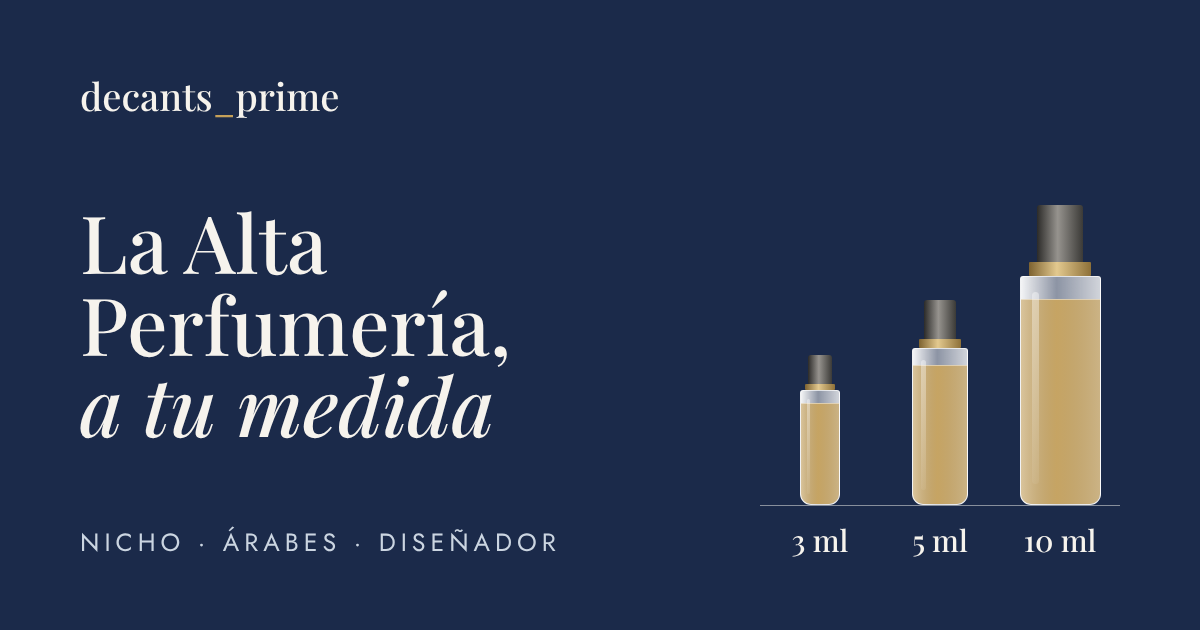
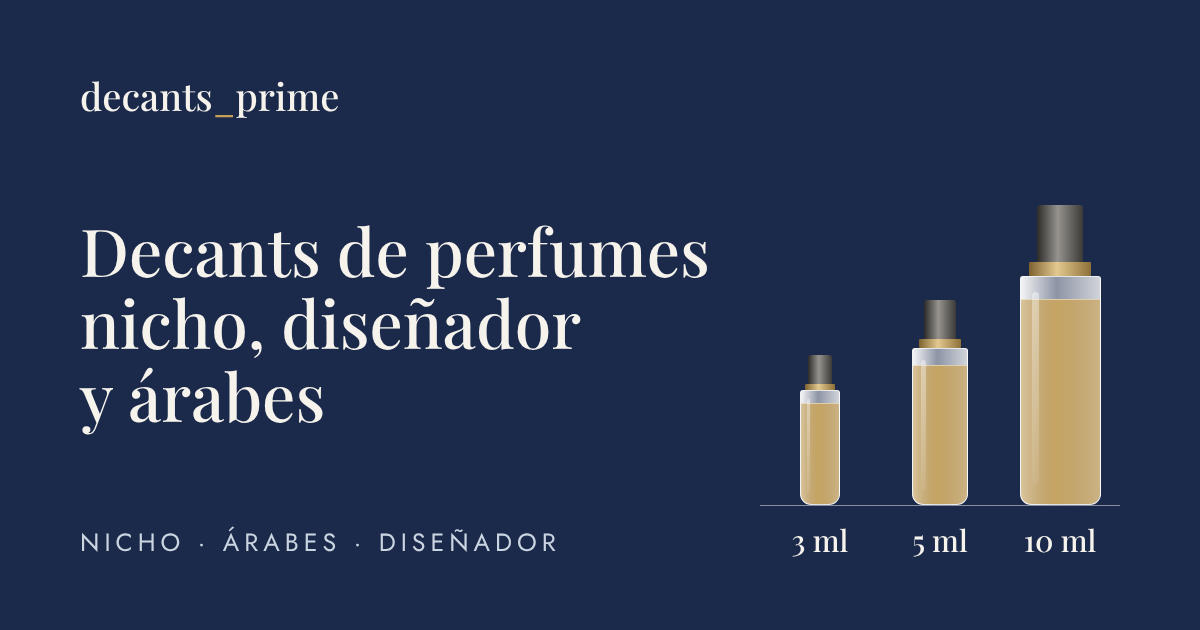
Afina el inicio, la sección de por qué comprar un decant y publica reseñas
- Titular del inicio más directo y sin la línea de la estrella
- Sellos de confianza más compactos
- ¿Por qué comprar un decant? en un solo bloque, sin la comparativa
- Siete reseñas de clientes publicadas

Claude-Session: https://claude.ai/code/session_01RRv6x49iVDBYFgnW4mL8oC

Changed region(s): [[0.0617, 0.3317, 0.5858, 0.6937]]

diff --git a/index.html b/index.html
@@ -22,7 +22,7 @@
 <meta property="og:type" content="website">
 <meta property="og:locale" content="es_CL">
 <meta property="og:site_name" content="decants_prime">
-<meta property="og:title" content="decants_prime | La Alta Perfumería, a tu medida">
+<meta property="og:title" content="decants_prime | Decants de perfumes nicho, diseñador y árabes">
 <meta property="og:description" content="Decants de perfumes Nicho, Árabes y de Diseñador. Entregas en Rancagua y Santiago, envíos a todo Chile.">
 <meta property="og:url" content="https://aleshiro.github.io/Claudio-/">
 <meta property="og:image" content="https://aleshiro.github.io/Claudio-/assets/og-image.png">
@@ -30,7 +30,7 @@
 <meta property="og:image:height" content="630">
 <meta property="og:image:alt" content="decants_prime: decants de perfumes de alta perfumería">
 <meta name="twitter:card" content="summary_large_image">
-<meta name="twitter:title" content="decants_prime | La Alta Perfumería, a tu medida">
+<meta name="twitter:title" content="decants_prime | Decants de perfumes nicho, diseñador y árabes">
 <meta name="twitter:description" content="Decants de perfumes Nicho, Árabes y de Diseñador.">
 <meta name="twitter:image" content="https://aleshiro.github.io/Claudio-/assets/og-image.png">
 
@@ -83,7 +83,7 @@
      Solo hay que regenerarlo si cambias clases de diseño: ver README, sección "Diseño". -->
 <style>
 /* TAILWIND:INICIO */
-*,:after,:before{--tw-border-spacing-x:0;--tw-border-spacing-y:0;--tw-translate-x:0;--tw-translate-y:0;--tw-rotate:0;--tw-skew-x:0;--tw-skew-y:0;--tw-scale-x:1;--tw-scale-y:1;--tw-pan-x: ;--tw-pan-y: ;--tw-pinch-zoom: ;--tw-scroll-snap-strictness:proximity;--tw-gradient-from-position: ;--tw-gradient-via-position: ;--tw-gradient-to-position: ;--tw-ordinal: ;--tw-slashed-zero: ;--tw-numeric-figure: ;--tw-numeric-spacing: ;--tw-numeric-fraction: ;--tw-ring-inset: ;--tw-ring-offset-width:0px;--tw-ring-offset-color:#fff;--tw-ring-color:rgba(59,130,246,.5);--tw-ring-offset-shadow:0 0 #0000;--tw-ring-shadow:0 0 #0000;--tw-shadow:0 0 #0000;--tw-shadow-colored:0 0 #0000;--tw-blur: ;--tw-brightness: ;--tw-contrast: ;--tw-grayscale: ;--tw-hue-rotate: ;--tw-invert: ;--tw-saturate: ;--tw-sepia: ;--tw-drop-shadow: ;--tw-backdrop-blur: ;--tw-backdrop-brightness: ;--tw-backdrop-contrast: ;--tw-backdrop-grayscale: ;--tw-backdrop-hue-rotate: ;--tw-backdrop-invert: ;--tw-backdrop-opacity: ;--tw-backdrop-saturate: ;--tw-backdrop-sepia: ;--tw-contain-size: ;--tw-contain-layout: ;--tw-contain-paint: ;--tw-contain-style: }::backdrop{--tw-border-spacing-x:0;--tw-border-spacing-y:0;--tw-translate-x:0;--tw-translate-y:0;--tw-rotate:0;--tw-skew-x:0;--tw-skew-y:0;--tw-scale-x:1;--tw-scale-y:1;--tw-pan-x: ;--tw-pan-y: ;--tw-pinch-zoom: ;--tw-scroll-snap-strictness:proximity;--tw-gradient-from-position: ;--tw-gradient-via-position: ;--tw-gradient-to-position: ;--tw-ordinal: ;--tw-slashed-zero: ;--tw-numeric-figure: ;--tw-numeric-spacing: ;--tw-numeric-fraction: ;--tw-ring-inset: ;--tw-ring-offset-width:0px;--tw-ring-offset-color:#fff;--tw-ring-color:rgba(59,130,246,.5);--tw-ring-offset-shadow:0 0 #0000;--tw-ring-shadow:0 0 #0000;--tw-shadow:0 0 #0000;--tw-shadow-colored:0 0 #0000;--tw-blur: ;--tw-brightness: ;--tw-contrast: ;--tw-grayscale: ;--tw-hue-rotate: ;--tw-invert: ;--tw-saturate: ;--tw-sepia: ;--tw-drop-shadow: ;--tw-backdrop-blur: ;--tw-backdrop-brightness: ;--tw-backdrop-contrast: ;--tw-backdrop-grayscale: ;--tw-backdrop-hue-rotate: ;--tw-backdrop-invert: ;--tw-backdrop-opacity: ;--tw-backdrop-saturate: ;--tw-backdrop-sepia: ;--tw-contain-size: ;--tw-contain-layout: ;--tw-contain-paint: ;--tw-contain-style: }/*! tailwindcss v3.4.17 | MIT License | https://tailwindcss.com*/*,:after,:before{border:0 solid #e5e7eb;box-sizing:border-box}:after,:before{--tw-content:""}:host,html{line-height:1.5;-webkit-text-size-adjust:100%;font-family:var(--font-sans);font-feature-settings:normal;font-variation-settings:normal;tab-size:4;-webkit-tap-highlight-color:transparent}body{line-height:inherit;margin:0}hr{border-top-width:1px;color:inherit;height:0}abbr:where([title]){-webkit-text-decoration:underline dotted;text-decoration:underline dotted}h1,h2,h3,h4,h5,h6{font-size:inherit;font-weight:inherit}a{color:inherit;text-decoration:inherit}b,strong{font-weight:bolder}code,kbd,pre,samp{font-family:ui-monospace,SFMono-Regular,Menlo,Monaco,Consolas,Liberation Mono,Courier New,monospace;font-feature-settings:normal;font-size:1em;font-variation-settings:normal}small{font-size:80%}sub,sup{font-size:75%;line-height:0;position:relative;vertical-align:baseline}sub{bottom:-.25em}sup{top:-.5em}table{border-collapse:collapse;border-color:inherit;text-indent:0}button,input,optgroup,select,textarea{color:inherit;font-family:inherit;font-feature-settings:inherit;font-size:100%;font-variation-settings:inherit;font-weight:inherit;letter-spacing:inherit;line-height:inherit;margin:0;padding:0}button,select{text-transform:none}button,input:where([type=button]),input:where([type=reset]),input:where([type=submit]){-webkit-appearance:button;background-color:transparent;background-image:none}:-moz-focusring{outline:auto}:-moz-ui-invalid{box-shadow:none}progress{vertical-align:baseline}::-webkit-inner-spin-button,::-webkit-outer-spin-button{height:auto}[type=search]{-webkit-appearance:textfield;outline-offset:-2px}::-webkit-search-decoration{-webkit-appearance:none}::-webkit-file-upload-button{-webkit-appearance:button;font:inherit}summary{display:list-item}blockquote,dd,dl,figure,h1,h2,h3,h4,h5,h6,hr,p,pre{margin:0}fieldset{margin:0}fieldset,legend{padding:0}menu,ol,ul{list-style:none;margin:0;padding:0}dialog{padding:0}textarea{resize:vertical}input::placeholder,textarea::placeholder{color:#9ca3af;opacity:1}[role=button],button{cursor:pointer}:disabled{cursor:default}audio,canvas,embed,iframe,img,object,svg,video{display:block;vertical-align:middle}img,video{height:auto;max-width:100%}[hidden]:where(:not([hidden=until-found])){display:none}.sr-only{height:1px;margin:-1px;overflow:hidden;padding:0;position:absolute;width:1px;clip:rect(0,0,0,0);border-width:0;white-space:nowrap}.pointer-events-none{pointer-events:none}.\!visible{visibility:visible!important}.visible{visibility:visible}.fixed{position:fixed}.absolute{position:absolute}.relative{position:relative}.sticky{position:sticky}.bottom-2{bottom:.5rem}.left-2{left:.5rem}.left-3\.5{left:.875rem}.right-1\.5{right:.375rem}.right-2{right:.5rem}.top-1\.5{top:.375rem}.top-1\/2{top:50%}.top-2{top:.5rem}.z-10{z-index:10}.z-40{z-index:40}.my-6{margin-bottom:1.5rem;margin-top:1.5rem}.-ml-2\.5{margin-left:-.625rem}.-mr-2{margin-right:-.5rem}.-mr-2\.5{margin-right:-.625rem}.-mt-2{margin-top:-.5rem}.mb-1\.5{margin-bottom:.375rem}.ml-auto{margin-left:auto}.mt-0\.5{margin-top:.125rem}.mt-1{margin-top:.25rem}.mt-1\.5{margin-top:.375rem}.mt-12{margin-top:3rem}.mt-2{margin-top:.5rem}.mt-2\.5{margin-top:.625rem}.mt-3{margin-top:.75rem}.mt-4{margin-top:1rem}.mt-5{margin-top:1.25rem}.mt-6{margin-top:1.5rem}.mt-7{margin-top:1.75rem}.mt-8{margin-top:2rem}.mt-9{margin-top:2.25rem}.mt-auto{margin-top:auto}.block{display:block}.flex{display:flex}.inline-flex{display:inline-flex}.grid{display:grid}.hidden{display:none}.aspect-square{aspect-ratio:1/1}.h-12{height:3rem}.h-14{height:3.5rem}.h-9{height:2.25rem}.h-\[4\.5rem\]{height:4.5rem}.h-full{height:100%}.w-12{width:3rem}.w-64{width:16rem}.w-7{width:1.75rem}.w-9{width:2.25rem}.w-full{width:100%}.min-w-0{min-width:0}.max-w-2xl{max-width:42rem}.max-w-3xl{max-width:48rem}.max-w-md{max-width:28rem}.max-w-sm{max-width:24rem}.max-w-xl{max-width:36rem}.flex-1{flex:1 1 0%}.flex-none{flex:none}.-translate-y-1\/2{--tw-translate-y:-50%}.-translate-y-1\/2,.transform{transform:translate(var(--tw-translate-x),var(--tw-translate-y)) rotate(var(--tw-rotate)) skewX(var(--tw-skew-x)) skewY(var(--tw-skew-y)) scaleX(var(--tw-scale-x)) scaleY(var(--tw-scale-y))}.resize{resize:both}.grid-cols-2{grid-template-columns:repeat(2,minmax(0,1fr))}.grid-cols-\[auto_1fr\]{grid-template-columns:auto 1fr}.flex-col{flex-direction:column}.flex-wrap{flex-wrap:wrap}.items-start{align-items:flex-start}.items-end{align-items:flex-end}.items-center{align-items:center}.items-baseline{align-items:baseline}.justify-end{justify-content:flex-end}.justify-center{justify-content:center}.justify-between{justify-content:space-between}.gap-1{gap:.25rem}.gap-1\.5{gap:.375rem}.gap-10{gap:2.5rem}.gap-12{gap:3rem}.gap-2{gap:.5rem}.gap-2\.5{gap:.625rem}.gap-3{gap:.75rem}.gap-3\.5{gap:.875rem}.gap-4{gap:1rem}.gap-5{gap:1.25rem}.gap-6{gap:1.5rem}.gap-7{gap:1.75rem}.gap-9{gap:2.25rem}.gap-px{gap:1px}.gap-x-12{column-gap:3rem}.gap-x-2{column-gap:.5rem}.gap-x-3{column-gap:.75rem}.gap-x-4{column-gap:1rem}.gap-x-6{column-gap:1.5rem}.gap-y-0\.5{row-gap:.125rem}.gap-y-1{row-gap:.25rem}.gap-y-1\.5{row-gap:.375rem}.gap-y-3{row-gap:.75rem}.gap-y-4{row-gap:1rem}.gap-y-6{row-gap:1.5rem}.self-start{align-self:flex-start}.justify-self-center{justify-self:center}.overflow-hidden{overflow:hidden}.overflow-y-auto{overflow-y:auto}.overscroll-contain{overscroll-behavior:contain}.whitespace-nowrap{white-space:nowrap}.text-wrap{text-wrap:wrap}.break-all{word-break:break-all}.rounded-full{border-radius:9999px}.border{border-width:1px}.border-2{border-width:2px}.border-y{border-top-width:1px}.border-b,.border-y{border-bottom-width:1px}.border-t{border-top-width:1px}.border-linea{--tw-border-opacity:1;border-color:rgb(var(--linea)/var(--tw-border-opacity,1))}.border-tinta\/30{border-color:rgb(var(--tinta)/.3)}.border-tinta\/40{border-color:rgb(var(--tinta)/.4)}.bg-fondo{--tw-bg-opacity:1;background-color:rgb(var(--fondo)/var(--tw-bg-opacity,1))}.bg-fondo\/95{background-color:rgb(var(--fondo)/.95)}.bg-linea{--tw-bg-opacity:1;background-color:rgb(var(--linea)/var(--tw-bg-opacity,1))}.bg-papel{--tw-bg-opacity:1;background-color:rgb(var(--papel)/var(--tw-bg-opacity,1))}.bg-piedra{--tw-bg-opacity:1;background-color:rgb(var(--piedra)/var(--tw-bg-opacity,1))}.p-3{padding:.75rem}.p-4{padding:1rem}.p-5{padding:1.25rem}.py-1{padding-bottom:.25rem;padding-top:.25rem}.py-1\.5{padding-bottom:.375rem;padding-top:.375rem}.py-10{padding-bottom:2.5rem;padding-top:2.5rem}.py-12{padding-bottom:3rem;padding-top:3rem}.py-14{padding-bottom:3.5rem;padding-top:3.5rem}.py-2{padding-bottom:.5rem;padding-top:.5rem}.py-2\.5{padding-bottom:.625rem;padding-top:.625rem}.py-3{padding-bottom:.75rem;padding-top:.75rem}.py-3\.5{padding-bottom:.875rem;padding-top:.875rem}.py-4{padding-bottom:1rem;padding-top:1rem}.py-5{padding-bottom:1.25rem;padding-top:1.25rem}.py-6{padding-bottom:1.5rem;padding-top:1.5rem}.py-7{padding-bottom:1.75rem;padding-top:1.75rem}.pb-1{padding-bottom:.25rem}.pb-11{padding-bottom:2.75rem}.pt-10{padding-top:2.5rem}.pt-2{padding-top:.5rem}.pt-3\.5{padding-top:.875rem}.pt-4{padding-top:1rem}.pt-5{padding-top:1.25rem}.pt-6{padding-top:1.5rem}.pt-9{padding-top:2.25rem}.text-left{text-align:left}.text-center{text-align:center}.text-right{text-align:right}.font-display{font-family:var(--font-display)}.text-2xl{font-size:1.5rem;line-height:2rem}.text-3xl{font-size:1.875rem;line-height:2.25rem}.text-4xl{font-size:2.25rem;line-height:2.5rem}.text-\[\.9375rem\]{font-size:.9375rem}.text-\[1\.0625rem\]{font-size:1.0625rem}.text-\[1\.125rem\]{font-size:1.125rem}.text-\[1\.1875rem\]{font-size:1.1875rem}.text-\[1\.3125rem\]{font-size:1.3125rem}.text-\[1\.75rem\]{font-size:1.75rem}.text-\[10px\]{font-size:10px}.text-\[11\.5px\]{font-size:11.5px}.text-\[11px\]{font-size:11px}.text-\[12\.5px\]{font-size:12.5px}.text-\[13px\]{font-size:13px}.text-\[2\.5rem\]{font-size:2.5rem}.text-\[2rem\]{font-size:2rem}.text-base{font-size:1rem;line-height:1.5rem}.text-sm{font-size:.875rem;line-height:1.25rem}.text-xl{font-size:1.25rem;line-height:1.75rem}.text-xs{font-size:.75rem;line-height:1rem}.font-medium{font-weight:500}.uppercase{text-transform:uppercase}.italic{font-style:italic}.tabular-nums{--tw-numeric-spacing:tabular-nums;font-variant-numeric:var(--tw-ordinal) var(--tw-slashed-zero) var(--tw-numeric-figure) var(--tw-numeric-spacing) var(--tw-numeric-fraction)}.leading-\[1\.08\]{line-height:1.08}.leading-\[1\.12\]{line-height:1.12}.leading-\[1\.15\]{line-height:1.15}.leading-none{line-height:1}.leading-relaxed{line-height:1.625}.leading-snug{line-height:1.375}.leading-tight{line-height:1.25}.tracking-\[\.2em\]{letter-spacing:.2em}.tracking-normal{letter-spacing:0}.text-alerta{--tw-text-opacity:1;color:rgb(var(--alerta)/var(--tw-text-opacity,1))}.text-humo{--tw-text-opacity:1;color:rgb(var(--humo)/var(--tw-text-opacity,1))}.text-oro{--tw-text-opacity:1;color:rgb(var(--oro)/var(--tw-text-opacity,1))}.text-tinta{--tw-text-opacity:1;color:rgb(var(--tinta)/var(--tw-text-opacity,1))}.underline{text-decoration-line:underline}.line-through{text-decoration-line:line-through}.underline-offset-4{text-underline-offset:4px}.antialiased{-webkit-font-smoothing:antialiased;-moz-osx-font-smoothing:grayscale}.outline{outline-style:solid}.blur{--tw-blur:blur(8px)}.blur,.drop-shadow{filter:var(--tw-blur) var(--tw-brightness) var(--tw-contrast) var(--tw-grayscale) var(--tw-hue-rotate) var(--tw-invert) var(--tw-saturate) var(--tw-sepia) var(--tw-drop-shadow)}.drop-shadow{--tw-drop-shadow:drop-shadow(0 1px 2px rgba(0,0,0,.1)) drop-shadow(0 1px 1px rgba(0,0,0,.06))}.grayscale{--tw-grayscale:grayscale(100%)}.filter,.grayscale{filter:var(--tw-blur) var(--tw-brightness) var(--tw-contrast) var(--tw-grayscale) var(--tw-hue-rotate) var(--tw-invert) var(--tw-saturate) var(--tw-sepia) var(--tw-drop-shadow)}.backdrop-blur-md{--tw-backdrop-blur:blur(12px);-webkit-backdrop-filter:var(--tw-backdrop-blur) var(--tw-backdrop-brightness) var(--tw-backdrop-contrast) var(--tw-backdrop-grayscale) var(--tw-backdrop-hue-rotate) var(--tw-backdrop-invert) var(--tw-backdrop-opacity) var(--tw-backdrop-saturate) var(--tw-backdrop-sepia);backdrop-filter:var(--tw-backdrop-blur) var(--tw-backdrop-brightness) var(--tw-backdrop-contrast) var(--tw-backdrop-grayscale) var(--tw-backdrop-hue-rotate) var(--tw-backdrop-invert) var(--tw-backdrop-opacity) var(--tw-backdrop-saturate) var(--tw-backdrop-sepia)}.transition{transition-duration:.15s;transition-property:color,background-color,border-color,text-decoration-color,fill,stroke,opacity,box-shadow,transform,filter,-webkit-backdrop-filter;transition-property:color,background-color,border-color,text-decoration-color,fill,stroke,opacity,box-shadow,transform,filter,backdrop-filter;transition-property:color,background-color,border-color,text-decoration-color,fill,stroke,opacity,box-shadow,transform,filter,backdrop-filter,-webkit-backdrop-filter;transition-timing-function:cubic-bezier(.4,0,.2,1)}@media (max-width:374px){.max-\[374px\]\:hidden{display:none}}@media (min-width:640px){.sm\:bottom-3{bottom:.75rem}.sm\:left-3{left:.75rem}.sm\:right-3{right:.75rem}.sm\:top-3{top:.75rem}.sm\:grid-cols-2{grid-template-columns:repeat(2,minmax(0,1fr))}.sm\:flex-row{flex-direction:row}.sm\:items-start{align-items:flex-start}.sm\:gap-3\.5{gap:.875rem}.sm\:gap-5{gap:1.25rem}.sm\:p-4{padding:1rem}.sm\:p-6{padding:1.5rem}.sm\:p-7{padding:1.75rem}.sm\:p-8{padding:2rem}.sm\:text-\[1\.375rem\]{font-size:1.375rem}.sm\:text-\[2rem\]{font-size:2rem}.sm\:text-xl{font-size:1.25rem;line-height:1.75rem}}@media (min-width:768px){.md\:mt-16{margin-top:4rem}.md\:block{display:block}.md\:flex{display:flex}.md\:grid{display:grid}.md\:hidden{display:none}.md\:h-\[4\.5rem\]{height:4.5rem}.md\:grid-cols-2{grid-template-columns:repeat(2,minmax(0,1fr))}.md\:grid-cols-3{grid-template-columns:repeat(3,minmax(0,1fr))}.md\:grid-cols-4{grid-template-columns:repeat(4,minmax(0,1fr))}.md\:grid-cols-\[minmax\(0\2c 1fr\)_minmax\(0\2c 24rem\)\]{grid-template-columns:minmax(0,1fr) minmax(0,24rem)}.md\:flex-row{flex-direction:row}.md\:flex-col{flex-direction:column}.md\:flex-wrap{flex-wrap:wrap}.md\:items-center{align-items:center}.md\:justify-between{justify-content:space-between}.md\:gap-10{gap:2.5rem}.md\:gap-16{gap:4rem}.md\:gap-6{gap:1.5rem}.md\:gap-8{gap:2rem}.md\:gap-x-3{column-gap:.75rem}.md\:gap-y-5{row-gap:1.25rem}.md\:px-10{padding-left:2.5rem;padding-right:2.5rem}.md\:py-0{padding-bottom:0;padding-top:0}.md\:py-20{padding-bottom:5rem;padding-top:5rem}.md\:py-8{padding-bottom:2rem;padding-top:2rem}.md\:pb-20{padding-bottom:5rem}.md\:pl-10{padding-left:2.5rem}.md\:pr-10{padding-right:2.5rem}.md\:pt-20{padding-top:5rem}.md\:text-4xl{font-size:2.25rem;line-height:2.5rem}.md\:text-5xl{font-size:3rem;line-height:1}.md\:text-\[4\.25rem\]{font-size:4.25rem}.md\:text-xl{font-size:1.25rem;line-height:1.75rem}.md\:leading-\[1\.05\]{line-height:1.05}}@media (min-width:1024px){.lg\:ml-2{margin-left:.5rem}.lg\:flex{display:flex}.lg\:hidden{display:none}.lg\:w-40{width:10rem}.lg\:grid-cols-4{grid-template-columns:repeat(4,minmax(0,1fr))}.lg\:text-2xl{font-size:1.5rem;line-height:2rem}}@media (min-width:1280px){.xl\:w-60{width:15rem}.xl\:gap-8{gap:2rem}}
+*,:after,:before{--tw-border-spacing-x:0;--tw-border-spacing-y:0;--tw-translate-x:0;--tw-translate-y:0;--tw-rotate:0;--tw-skew-x:0;--tw-skew-y:0;--tw-scale-x:1;--tw-scale-y:1;--tw-pan-x: ;--tw-pan-y: ;--tw-pinch-zoom: ;--tw-scroll-snap-strictness:proximity;--tw-gradient-from-position: ;--tw-gradient-via-position: ;--tw-gradient-to-position: ;--tw-ordinal: ;--tw-slashed-zero: ;--tw-numeric-figure: ;--tw-numeric-spacing: ;--tw-numeric-fraction: ;--tw-ring-inset: ;--tw-ring-offset-width:0px;--tw-ring-offset-color:#fff;--tw-ring-color:rgba(59,130,246,.5);--tw-ring-offset-shadow:0 0 #0000;--tw-ring-shadow:0 0 #0000;--tw-shadow:0 0 #0000;--tw-shadow-colored:0 0 #0000;--tw-blur: ;--tw-brightness: ;--tw-contrast: ;--tw-grayscale: ;--tw-hue-rotate: ;--tw-invert: ;--tw-saturate: ;--tw-sepia: ;--tw-drop-shadow: ;--tw-backdrop-blur: ;--tw-backdrop-brightness: ;--tw-backdrop-contrast: ;--tw-backdrop-grayscale: ;--tw-backdrop-hue-rotate: ;--tw-backdrop-invert: ;--tw-backdrop-opacity: ;--tw-backdrop-saturate: ;--tw-backdrop-sepia: ;--tw-contain-size: ;--tw-contain-layout: ;--tw-contain-paint: ;--tw-contain-style: }::backdrop{--tw-border-spacing-x:0;--tw-border-spacing-y:0;--tw-translate-x:0;--tw-translate-y:0;--tw-rotate:0;--tw-skew-x:0;--tw-skew-y:0;--tw-scale-x:1;--tw-scale-y:1;--tw-pan-x: ;--tw-pan-y: ;--tw-pinch-zoom: ;--tw-scroll-snap-strictness:proximity;--tw-gradient-from-position: ;--tw-gradient-via-position: ;--tw-gradient-to-position: ;--tw-ordinal: ;--tw-slashed-zero: ;--tw-numeric-figure: ;--tw-numeric-spacing: ;--tw-numeric-fraction: ;--tw-ring-inset: ;--tw-ring-offset-width:0px;--tw-ring-offset-color:#fff;--tw-ring-color:rgba(59,130,246,.5);--tw-ring-offset-shadow:0 0 #0000;--tw-ring-shadow:0 0 #0000;--tw-shadow:0 0 #0000;--tw-shadow-colored:0 0 #0000;--tw-blur: ;--tw-brightness: ;--tw-contrast: ;--tw-grayscale: ;--tw-hue-rotate: ;--tw-invert: ;--tw-saturate: ;--tw-sepia: ;--tw-drop-shadow: ;--tw-backdrop-blur: ;--tw-backdrop-brightness: ;--tw-backdrop-contrast: ;--tw-backdrop-grayscale: ;--tw-backdrop-hue-rotate: ;--tw-backdrop-invert: ;--tw-backdrop-opacity: ;--tw-backdrop-saturate: ;--tw-backdrop-sepia: ;--tw-contain-size: ;--tw-contain-layout: ;--tw-contain-paint: ;--tw-contain-style: }/*! tailwindcss v3.4.17 | MIT License | https://tailwindcss.com*/*,:after,:before{border:0 solid #e5e7eb;box-sizing:border-box}:after,:before{--tw-content:""}:host,html{line-height:1.5;-webkit-text-size-adjust:100%;font-family:var(--font-sans);font-feature-settings:normal;font-variation-settings:normal;tab-size:4;-webkit-tap-highlight-color:transparent}body{line-height:inherit;margin:0}hr{border-top-width:1px;color:inherit;height:0}abbr:where([title]){-webkit-text-decoration:underline dotted;text-decoration:underline dotted}h1,h2,h3,h4,h5,h6{font-size:inherit;font-weight:inherit}a{color:inherit;text-decoration:inherit}b,strong{font-weight:bolder}code,kbd,pre,samp{font-family:ui-monospace,SFMono-Regular,Menlo,Monaco,Consolas,Liberation Mono,Courier New,monospace;font-feature-settings:normal;font-size:1em;font-variation-settings:normal}small{font-size:80%}sub,sup{font-size:75%;line-height:0;position:relative;vertical-align:baseline}sub{bottom:-.25em}sup{top:-.5em}table{border-collapse:collapse;border-color:inherit;text-indent:0}button,input,optgroup,select,textarea{color:inherit;font-family:inherit;font-feature-settings:inherit;font-size:100%;font-variation-settings:inherit;font-weight:inherit;letter-spacing:inherit;line-height:inherit;margin:0;padding:0}button,select{text-transform:none}button,input:where([type=button]),input:where([type=reset]),input:where([type=submit]){-webkit-appearance:button;background-color:transparent;background-image:none}:-moz-focusring{outline:auto}:-moz-ui-invalid{box-shadow:none}progress{vertical-align:baseline}::-webkit-inner-spin-button,::-webkit-outer-spin-button{height:auto}[type=search]{-webkit-appearance:textfield;outline-offset:-2px}::-webkit-search-decoration{-webkit-appearance:none}::-webkit-file-upload-button{-webkit-appearance:button;font:inherit}summary{display:list-item}blockquote,dd,dl,figure,h1,h2,h3,h4,h5,h6,hr,p,pre{margin:0}fieldset{margin:0}fieldset,legend{padding:0}menu,ol,ul{list-style:none;margin:0;padding:0}dialog{padding:0}textarea{resize:vertical}input::placeholder,textarea::placeholder{color:#9ca3af;opacity:1}[role=button],button{cursor:pointer}:disabled{cursor:default}audio,canvas,embed,iframe,img,object,svg,video{display:block;vertical-align:middle}img,video{height:auto;max-width:100%}[hidden]:where(:not([hidden=until-found])){display:none}.sr-only{height:1px;margin:-1px;overflow:hidden;padding:0;position:absolute;width:1px;clip:rect(0,0,0,0);border-width:0;white-space:nowrap}.pointer-events-none{pointer-events:none}.\!visible{visibility:visible!important}.visible{visibility:visible}.fixed{position:fixed}.absolute{position:absolute}.relative{position:relative}.sticky{position:sticky}.bottom-2{bottom:.5rem}.left-2{left:.5rem}.left-3\.5{left:.875rem}.right-1\.5{right:.375rem}.right-2{right:.5rem}.top-1\.5{top:.375rem}.top-1\/2{top:50%}.top-2{top:.5rem}.z-10{z-index:10}.z-40{z-index:40}.my-6{margin-bottom:1.5rem;margin-top:1.5rem}.-ml-2\.5{margin-left:-.625rem}.-mr-2{margin-right:-.5rem}.-mr-2\.5{margin-right:-.625rem}.-mt-2{margin-top:-.5rem}.mb-1\.5{margin-bottom:.375rem}.ml-auto{margin-left:auto}.mt-0\.5{margin-top:.125rem}.mt-1{margin-top:.25rem}.mt-1\.5{margin-top:.375rem}.mt-12{margin-top:3rem}.mt-2{margin-top:.5rem}.mt-2\.5{margin-top:.625rem}.mt-3{margin-top:.75rem}.mt-4{margin-top:1rem}.mt-5{margin-top:1.25rem}.mt-6{margin-top:1.5rem}.mt-7{margin-top:1.75rem}.mt-8{margin-top:2rem}.mt-9{margin-top:2.25rem}.mt-auto{margin-top:auto}.block{display:block}.flex{display:flex}.inline-flex{display:inline-flex}.grid{display:grid}.hidden{display:none}.aspect-square{aspect-ratio:1/1}.h-12{height:3rem}.h-14{height:3.5rem}.h-9{height:2.25rem}.h-\[4\.5rem\]{height:4.5rem}.h-full{height:100%}.w-12{width:3rem}.w-64{width:16rem}.w-7{width:1.75rem}.w-9{width:2.25rem}.w-full{width:100%}.min-w-0{min-width:0}.max-w-2xl{max-width:42rem}.max-w-3xl{max-width:48rem}.max-w-md{max-width:28rem}.max-w-sm{max-width:24rem}.max-w-xl{max-width:36rem}.flex-1{flex:1 1 0%}.flex-none{flex:none}.-translate-y-1\/2{--tw-translate-y:-50%}.-translate-y-1\/2,.transform{transform:translate(var(--tw-translate-x),var(--tw-translate-y)) rotate(var(--tw-rotate)) skewX(var(--tw-skew-x)) skewY(var(--tw-skew-y)) scaleX(var(--tw-scale-x)) scaleY(var(--tw-scale-y))}.resize{resize:both}.grid-cols-2{grid-template-columns:repeat(2,minmax(0,1fr))}.grid-cols-\[auto_1fr\]{grid-template-columns:auto 1fr}.flex-col{flex-direction:column}.flex-wrap{flex-wrap:wrap}.items-start{align-items:flex-start}.items-end{align-items:flex-end}.items-center{align-items:center}.items-baseline{align-items:baseline}.justify-end{justify-content:flex-end}.justify-center{justify-content:center}.justify-between{justify-content:space-between}.gap-1{gap:.25rem}.gap-1\.5{gap:.375rem}.gap-10{gap:2.5rem}.gap-12{gap:3rem}.gap-2{gap:.5rem}.gap-2\.5{gap:.625rem}.gap-3{gap:.75rem}.gap-3\.5{gap:.875rem}.gap-4{gap:1rem}.gap-5{gap:1.25rem}.gap-6{gap:1.5rem}.gap-7{gap:1.75rem}.gap-9{gap:2.25rem}.gap-px{gap:1px}.gap-x-12{column-gap:3rem}.gap-x-2{column-gap:.5rem}.gap-x-3{column-gap:.75rem}.gap-x-4{column-gap:1rem}.gap-x-6{column-gap:1.5rem}.gap-y-0\.5{row-gap:.125rem}.gap-y-1{row-gap:.25rem}.gap-y-1\.5{row-gap:.375rem}.gap-y-3{row-gap:.75rem}.gap-y-3\.5{row-gap:.875rem}.gap-y-4{row-gap:1rem}.self-start{align-self:flex-start}.justify-self-center{justify-self:center}.overflow-hidden{overflow:hidden}.overflow-y-auto{overflow-y:auto}.overscroll-contain{overscroll-behavior:contain}.text-wrap{text-wrap:wrap}.break-all{word-break:break-all}.rounded-full{border-radius:9999px}.border{border-width:1px}.border-y{border-top-width:1px}.border-b,.border-y{border-bottom-width:1px}.border-t{border-top-width:1px}.border-linea{--tw-border-opacity:1;border-color:rgb(var(--linea)/var(--tw-border-opacity,1))}.border-tinta\/30{border-color:rgb(var(--tinta)/.3)}.border-tinta\/40{border-color:rgb(var(--tinta)/.4)}.bg-fondo{--tw-bg-opacity:1;background-color:rgb(var(--fondo)/var(--tw-bg-opacity,1))}.bg-fondo\/95{background-color:rgb(var(--fondo)/.95)}.bg-linea{--tw-bg-opacity:1;background-color:rgb(var(--linea)/var(--tw-bg-opacity,1))}.bg-papel{--tw-bg-opacity:1;background-color:rgb(var(--papel)/var(--tw-bg-opacity,1))}.p-3{padding:.75rem}.p-4{padding:1rem}.p-5{padding:1.25rem}.py-1{padding-bottom:.25rem;padding-top:.25rem}.py-1\.5{padding-bottom:.375rem;padding-top:.375rem}.py-10{padding-bottom:2.5rem;padding-top:2.5rem}.py-12{padding-bottom:3rem;padding-top:3rem}.py-14{padding-bottom:3.5rem;padding-top:3.5rem}.py-2{padding-bottom:.5rem;padding-top:.5rem}.py-2\.5{padding-bottom:.625rem;padding-top:.625rem}.py-3{padding-bottom:.75rem;padding-top:.75rem}.py-3\.5{padding-bottom:.875rem;padding-top:.875rem}.py-4{padding-bottom:1rem;padding-top:1rem}.py-5{padding-bottom:1.25rem;padding-top:1.25rem}.py-6{padding-bottom:1.5rem;padding-top:1.5rem}.pb-1{padding-bottom:.25rem}.pb-10{padding-bottom:2.5rem}.pt-10{padding-top:2.5rem}.pt-2{padding-top:.5rem}.pt-3\.5{padding-top:.875rem}.pt-4{padding-top:1rem}.pt-5{padding-top:1.25rem}.pt-6{padding-top:1.5rem}.pt-9{padding-top:2.25rem}.text-left{text-align:left}.text-center{text-align:center}.text-right{text-align:right}.font-display{font-family:var(--font-display)}.text-2xl{font-size:1.5rem;line-height:2rem}.text-3xl{font-size:1.875rem;line-height:2.25rem}.text-4xl{font-size:2.25rem;line-height:2.5rem}.text-\[\.9375rem\]{font-size:.9375rem}.text-\[1\.0625rem\]{font-size:1.0625rem}.text-\[1\.125rem\]{font-size:1.125rem}.text-\[1\.1875rem\]{font-size:1.1875rem}.text-\[1\.3125rem\]{font-size:1.3125rem}.text-\[1\.75rem\]{font-size:1.75rem}.text-\[10px\]{font-size:10px}.text-\[11\.5px\]{font-size:11.5px}.text-\[11px\]{font-size:11px}.text-\[12\.5px\]{font-size:12.5px}.text-\[2\.25rem\]{font-size:2.25rem}.text-\[2rem\]{font-size:2rem}.text-base{font-size:1rem;line-height:1.5rem}.text-sm{font-size:.875rem;line-height:1.25rem}.text-xl{font-size:1.25rem;line-height:1.75rem}.text-xs{font-size:.75rem;line-height:1rem}.font-medium{font-weight:500}.uppercase{text-transform:uppercase}.italic{font-style:italic}.tabular-nums{--tw-numeric-spacing:tabular-nums;font-variant-numeric:var(--tw-ordinal) var(--tw-slashed-zero) var(--tw-numeric-figure) var(--tw-numeric-spacing) var(--tw-numeric-fraction)}.leading-\[1\.08\]{line-height:1.08}.leading-\[1\.12\]{line-height:1.12}.leading-\[1\.15\]{line-height:1.15}.leading-\[1\.1\]{line-height:1.1}.leading-none{line-height:1}.leading-relaxed{line-height:1.625}.leading-snug{line-height:1.375}.leading-tight{line-height:1.25}.tracking-\[\.2em\]{letter-spacing:.2em}.tracking-normal{letter-spacing:0}.text-alerta{--tw-text-opacity:1;color:rgb(var(--alerta)/var(--tw-text-opacity,1))}.text-humo{--tw-text-opacity:1;color:rgb(var(--humo)/var(--tw-text-opacity,1))}.text-tinta{--tw-text-opacity:1;color:rgb(var(--tinta)/var(--tw-text-opacity,1))}.underline{text-decoration-line:underline}.line-through{text-decoration-line:line-through}.underline-offset-4{text-underline-offset:4px}.antialiased{-webkit-font-smoothing:antialiased;-moz-osx-font-smoothing:grayscale}.outline{outline-style:solid}.blur{--tw-blur:blur(8px)}.blur,.drop-shadow{filter:var(--tw-blur) var(--tw-brightness) var(--tw-contrast) var(--tw-grayscale) var(--tw-hue-rotate) var(--tw-invert) var(--tw-saturate) var(--tw-sepia) var(--tw-drop-shadow)}.drop-shadow{--tw-drop-shadow:drop-shadow(0 1px 2px rgba(0,0,0,.1)) drop-shadow(0 1px 1px rgba(0,0,0,.06))}.grayscale{--tw-grayscale:grayscale(100%)}.filter,.grayscale{filter:var(--tw-blur) var(--tw-brightness) var(--tw-contrast) var(--tw-grayscale) var(--tw-hue-rotate) var(--tw-invert) var(--tw-saturate) var(--tw-sepia) var(--tw-drop-shadow)}.backdrop-blur-md{--tw-backdrop-blur:blur(12px);-webkit-backdrop-filter:var(--tw-backdrop-blur) var(--tw-backdrop-brightness) var(--tw-backdrop-contrast) var(--tw-backdrop-grayscale) var(--tw-backdrop-hue-rotate) var(--tw-backdrop-invert) var(--tw-backdrop-opacity) var(--tw-backdrop-saturate) var(--tw-backdrop-sepia);backdrop-filter:var(--tw-backdrop-blur) var(--tw-backdrop-brightness) var(--tw-backdrop-contrast) var(--tw-backdrop-grayscale) var(--tw-backdrop-hue-rotate) var(--tw-backdrop-invert) var(--tw-backdrop-opacity) var(--tw-backdrop-saturate) var(--tw-backdrop-sepia)}.transition{transition-duration:.15s;transition-property:color,background-color,border-color,text-decoration-color,fill,stroke,opacity,box-shadow,transform,filter,-webkit-backdrop-filter;transition-property:color,background-color,border-color,text-decoration-color,fill,stroke,opacity,box-shadow,transform,filter,backdrop-filter;transition-property:color,background-color,border-color,text-decoration-color,fill,stroke,opacity,box-shadow,transform,filter,backdrop-filter,-webkit-backdrop-filter;transition-timing-function:cubic-bezier(.4,0,.2,1)}@media (max-width:374px){.max-\[374px\]\:hidden{display:none}}@media (min-width:640px){.sm\:bottom-3{bottom:.75rem}.sm\:left-3{left:.75rem}.sm\:right-3{right:.75rem}.sm\:top-3{top:.75rem}.sm\:grid-cols-2{grid-template-columns:repeat(2,minmax(0,1fr))}.sm\:gap-5{gap:1.25rem}.sm\:p-4{padding:1rem}.sm\:p-6{padding:1.5rem}.sm\:p-8{padding:2rem}.sm\:text-\[1\.375rem\]{font-size:1.375rem}.sm\:text-\[2rem\]{font-size:2rem}.sm\:text-xl{font-size:1.25rem;line-height:1.75rem}}@media (min-width:768px){.md\:mt-16{margin-top:4rem}.md\:block{display:block}.md\:flex{display:flex}.md\:grid{display:grid}.md\:hidden{display:none}.md\:h-\[4\.5rem\]{height:4.5rem}.md\:grid-cols-2{grid-template-columns:repeat(2,minmax(0,1fr))}.md\:grid-cols-3{grid-template-columns:repeat(3,minmax(0,1fr))}.md\:grid-cols-4{grid-template-columns:repeat(4,minmax(0,1fr))}.md\:grid-cols-\[minmax\(0\2c 1fr\)_minmax\(0\2c 24rem\)\]{grid-template-columns:minmax(0,1fr) minmax(0,24rem)}.md\:flex-row{flex-direction:row}.md\:flex-col{flex-direction:column}.md\:flex-wrap{flex-wrap:wrap}.md\:items-center{align-items:center}.md\:justify-between{justify-content:space-between}.md\:gap-10{gap:2.5rem}.md\:gap-16{gap:4rem}.md\:gap-6{gap:1.5rem}.md\:gap-8{gap:2rem}.md\:gap-x-3{column-gap:.75rem}.md\:gap-y-5{row-gap:1.25rem}.md\:px-10{padding-left:2.5rem;padding-right:2.5rem}.md\:px-8{padding-left:2rem;padding-right:2rem}.md\:py-0{padding-bottom:0;padding-top:0}.md\:py-2{padding-bottom:.5rem;padding-top:.5rem}.md\:py-20{padding-bottom:5rem;padding-top:5rem}.md\:py-5{padding-bottom:1.25rem;padding-top:1.25rem}.md\:pb-16{padding-bottom:4rem}.md\:pl-10{padding-left:2.5rem}.md\:pl-8{padding-left:2rem}.md\:pr-10{padding-right:2.5rem}.md\:pr-8{padding-right:2rem}.md\:pt-16{padding-top:4rem}.md\:text-4xl{font-size:2.25rem;line-height:2.5rem}.md\:text-5xl{font-size:3rem;line-height:1}.md\:text-\[3\.75rem\]{font-size:3.75rem}.md\:text-xl{font-size:1.25rem;line-height:1.75rem}.md\:leading-\[1\.06\]{line-height:1.06}}@media (min-width:1024px){.lg\:ml-2{margin-left:.5rem}.lg\:flex{display:flex}.lg\:hidden{display:none}.lg\:w-40{width:10rem}.lg\:grid-cols-4{grid-template-columns:repeat(4,minmax(0,1fr))}.lg\:text-2xl{font-size:1.5rem;line-height:2rem}}@media (min-width:1280px){.xl\:w-60{width:15rem}.xl\:gap-8{gap:2rem}}
 /* TAILWIND:FIN */
 </style>
 
@@ -423,10 +423,9 @@ select.campo { background-image: linear-gradient(45deg, transparent 50%, rgb(var
 
   <!-- ======================= HERO ======================= -->
   <section aria-labelledby="titulo-hero">
-    <div class="wrap pb-11 pt-10 md:pb-20 md:pt-20">
-      <p class="text-[12.5px] leading-snug text-humo"><span class="text-oro" aria-hidden="true">★</span> Sellados con teflón anti-derrames · Extracción limpia con jeringa</p>
-      <h1 id="titulo-hero" class="mt-5 max-w-3xl font-display text-[2.5rem] leading-[1.08] md:text-[4.25rem] md:leading-[1.05]">La Alta Perfumería, <em>a tu medida</em></h1>
-      <p class="mt-5 max-w-md text-[1.0625rem] text-humo">Perfumes nicho, árabes y de diseñador, extraídos de la botella original. Pruébalos en tu piel antes de invertir en el frasco completo.</p>
+    <div class="wrap pb-10 pt-10 md:pb-16 md:pt-16">
+      <h1 id="titulo-hero" class="max-w-3xl font-display text-[2.25rem] leading-[1.1] md:text-[3.75rem] md:leading-[1.06]">Decants de perfumes nicho, diseñador y árabes</h1>
+      <p class="mt-4 max-w-md text-[1.0625rem] text-humo">Originales, en 2, 3, 5 y 10 ml. Pruébalos en tu piel antes de comprar el frasco.</p>
       <div class="mt-7 flex flex-wrap gap-3">
         <a href="#match" class="btn btn-negro">Hacer test olfativo</a>
         <a href="#catalogo" class="btn btn-line">Ver catálogo</a>
@@ -441,22 +440,22 @@ select.campo { background-image: linear-gradient(45deg, transparent 50%, rgb(var
 
   <!-- ======================= SELLOS DE CONFIANZA ======================= -->
   <section class="border-y border-linea" aria-label="Por qué comprar con nosotros">
-    <ul class="wrap grid grid-cols-2 gap-x-4 gap-y-6 py-7 md:grid-cols-4 md:gap-8 md:py-8">
-      <li class="flex flex-col gap-2.5 sm:flex-row sm:items-start sm:gap-3.5">
-        <svg class="flex-none" width="26" height="26"><use href="#i-escudo"/></svg>
-        <p class="leading-snug"><span class="block text-sm font-medium">100% auténticos</span><span class="text-[13px] text-humo">Extraídos de la botella original</span></p>
+    <ul class="wrap grid grid-cols-2 gap-x-3 gap-y-3.5 py-4 md:grid-cols-4 md:gap-8 md:py-5">
+      <li class="flex items-start gap-2.5">
+        <svg class="flex-none" width="20" height="20"><use href="#i-escudo"/></svg>
+        <p class="leading-snug"><span class="block text-[12.5px] font-medium">100% auténticos</span><span class="text-[11.5px] text-humo">Extraídos de la botella original</span></p>
       </li>
-      <li class="flex flex-col gap-2.5 sm:flex-row sm:items-start sm:gap-3.5">
-        <svg class="flex-none" width="26" height="26"><use href="#i-caja"/></svg>
-        <p class="leading-snug"><span class="block text-sm font-medium">Envíos seguros</span><span class="text-[13px] text-humo">Despacho a todo Chile</span></p>
+      <li class="flex items-start gap-2.5">
+        <svg class="flex-none" width="20" height="20"><use href="#i-caja"/></svg>
+        <p class="leading-snug"><span class="block text-[12.5px] font-medium">Envíos seguros</span><span class="text-[11.5px] text-humo">Despacho a todo Chile</span></p>
       </li>
-      <li class="flex flex-col gap-2.5 sm:flex-row sm:items-start sm:gap-3.5">
-        <svg class="flex-none" width="26" height="26"><use href="#i-pago"/></svg>
-        <p class="leading-snug"><span class="block text-sm font-medium">Pago seguro</span><span class="text-[13px] text-humo">Transferencia o Mercado Pago</span></p>
+      <li class="flex items-start gap-2.5">
+        <svg class="flex-none" width="20" height="20"><use href="#i-pago"/></svg>
+        <p class="leading-snug"><span class="block text-[12.5px] font-medium">Pago seguro</span><span class="text-[11.5px] text-humo">Transferencia o Mercado Pago</span></p>
       </li>
-      <li class="flex flex-col gap-2.5 sm:flex-row sm:items-start sm:gap-3.5">
-        <svg class="flex-none" width="26" height="26"><use href="#i-pin"/></svg>
-        <p class="leading-snug"><span class="block text-sm font-medium">Entrega en persona</span><span class="text-[13px] text-humo">Rancagua y Santiago</span></p>
+      <li class="flex items-start gap-2.5">
+        <svg class="flex-none" width="20" height="20"><use href="#i-pin"/></svg>
+        <p class="leading-snug"><span class="block text-[12.5px] font-medium">Entrega en persona</span><span class="text-[11.5px] text-humo">Rancagua y Santiago</span></p>
       </li>
     </ul>
   </section>
@@ -536,32 +535,28 @@ select.campo { background-image: linear-gradient(45deg, transparent 50%, rgb(var
     </div>
   </section>
 
-  <!-- ======================= ¿POR QUÉ COMPRAR EN DECANT? ======================= -->
+  <!-- ======================= ¿POR QUÉ COMPRAR UN DECANT? ======================= -->
   <section id="por-que" class="border-t border-linea" aria-labelledby="titulo-por-que">
     <div class="wrap py-14 md:py-20">
-      <div class="max-w-xl">
-        <p class="eyebrow">La jugada inteligente</p>
-        <h2 id="titulo-por-que" class="mt-4 font-display text-[2rem] leading-[1.08] md:text-5xl">¿Por qué comprar en decant?</h2>
-      </div>
-      <div class="mt-8 grid gap-4 md:grid-cols-2 md:gap-6">
-        <div class="claro bg-piedra p-5 sm:p-7">
-          <p class="eyebrow">Comprar a ciegas</p>
-          <p class="mt-3 font-display text-2xl leading-tight">Frasco de 100 ml <span class="whitespace-nowrap text-humo">~$180.000</span></p>
-          <ul class="mt-5 flex flex-col gap-3 text-[.9375rem] text-humo">
-            <li class="flex gap-3"><span class="flex-none" aria-hidden="true">✕</span><span>Arriesgas tu dinero si no te gusta en tu piel.</span></li>
-            <li class="flex gap-3"><span class="flex-none" aria-hidden="true">✕</span><span>Pagas por un solo aroma para todo el año.</span></li>
-          </ul>
-        </div>
-        <div class="claro borde-dorado border-2 bg-papel p-5 sm:p-7">
-          <p class="eyebrow text-tinta">La jugada inteligente</p>
-          <p class="mt-3 font-display text-2xl leading-tight">Decant de 2 a 10 ml <span class="whitespace-nowrap">desde <span data-precio-minimo>$2.990</span></span></p>
-          <ul class="mt-5 flex flex-col gap-3 text-[.9375rem]">
-            <li class="flex gap-3"><span class="flex-none" aria-hidden="true">✓</span><span>Pagas hasta 90% menos que por el frasco y lo pruebas una semana entera en tu piel.</span></li>
-            <li class="flex gap-3"><span class="flex-none" aria-hidden="true">✓</span><span>Armas una rotación de 4 o 5 perfumes de lujo por menos de lo que cuesta un frasco.</span></li>
-            <li class="flex gap-3"><span class="flex-none" aria-hidden="true">✓</span><span>Formato de bolsillo con atomizador de vidrio sellado.</span></li>
-          </ul>
-        </div>
-      </div>
+      <h2 id="titulo-por-que" class="font-display text-[2rem] leading-[1.12] md:text-5xl">¿Por qué comprar un decant?</h2>
+      <ul class="mt-8 grid gap-px bg-linea md:grid-cols-2 lg:grid-cols-4">
+        <li class="bg-fondo py-6 md:pr-8 md:py-2">
+          <h3 class="font-display text-[1.3125rem] leading-snug">Lo pruebas antes de comprar el frasco</h3>
+          <p class="mt-2 text-[.9375rem] text-humo">Un frasco de 100 ml cuesta cerca de $180.000. Un decant parte en <span data-precio-minimo>$2.990</span> y te alcanza para usarlo varios días en tu piel.</p>
+        </li>
+        <li class="bg-fondo py-6 md:px-8 md:py-2">
+          <h3 class="font-display text-[1.3125rem] leading-snug">Armas tu propia rotación</h3>
+          <p class="mt-2 text-[.9375rem] text-humo">Llevas 4 o 5 perfumes distintos por menos de lo que cuesta un solo frasco.</p>
+        </li>
+        <li class="bg-fondo py-6 md:px-8 md:py-2">
+          <h3 class="font-display text-[1.3125rem] leading-snug">Va contigo a todas partes</h3>
+          <p class="mt-2 text-[.9375rem] text-humo">Atomizador de vidrio en formato de bolsillo.</p>
+        </li>
+        <li class="bg-fondo py-6 md:pl-8 md:py-2">
+          <h3 class="font-display text-[1.3125rem] leading-snug">Llega bien sellado</h3>
+          <p class="mt-2 text-[.9375rem] text-humo">Extraemos cada decant con jeringa y lo sellamos con teflón para que no se derrame.</p>
+        </li>
+      </ul>
     </div>
   </section>
 
@@ -1301,7 +1296,13 @@ const PACKS = [
      estrellas → de 1 a 5
      fecha     → año y mes, por ejemplo "2026-11" */
 const RESENAS = [
-  // { nombre: "Camila R.", perfume: "torino-21", estrellas: 5, texto: "Llegó al día siguiente y huele increíble.", fecha: "2026-11" },
+  { nombre: "Tomás V.", perfume: "sauvage-edp", estrellas: 5, texto: "Un clásico que no falla. Pedí el de 5 ml para llevarlo en la mochila y el frasquito es de súper buena calidad. Llegó rapidísimo a Santiago.", fecha: "2026-11" },
+  { nombre: "Camila F.", perfume: "erba-gold", estrellas: 5, texto: "Es una bomba, huele a lujo absoluto. Tenía miedo de que se filtrara en el envío por Blue Express pero venía sellado perfecto con teflón. 10/10.", fecha: "2026-11" },
+  { nombre: "Diego M.", perfume: "torino-21", estrellas: 5, texto: "Cítrico, fresco y ultra elegante. Coordiné entrega presencial en Rancagua y todo súper expedito. Vale cada peso probarlo así antes.", fecha: "2026-11" },
+  { nombre: "Javier C.", perfume: "asad-zanzibar", estrellas: 3, texto: "El aroma no fue mucho de mi estilo, siento que el coco es un poco salado para lo que busco. Dejando eso de lado, la atención de la tienda un 7, impecable la presentación.", fecha: "2026-10" },
+  { nombre: "Bastián R.", perfume: "le-beau", estrellas: 4, texto: "Muy rico el toque tropical, ideal para salir. En mi piel dura unas 6 horas. El decant viene súper bien armado y el atomizador tira buena cantidad.", fecha: "2026-11" },
+  { nombre: "Matías P.", perfume: "le-beau-flower", estrellas: 4, texto: "Aroma excelente, súper fresco. Le pongo 4 estrellas solo porque pedí el de 3 ml de puro tacaño y me arrepentí a los dos días, debí pedir el grande jajaja.", fecha: "2026-10" },
+  { nombre: "Ignacio S.", perfume: "le-beau", estrellas: 5, texto: "Una locura lo que proyecta esto. Lo compré en decant para probarlo antes de gastar las lucas en el frasco completo y me convenció totalmente.", fecha: "2026-11" },
 ];
 
 /* PREGUNTAS FRECUENTES (también se envían a Google como datos estructurados) */
